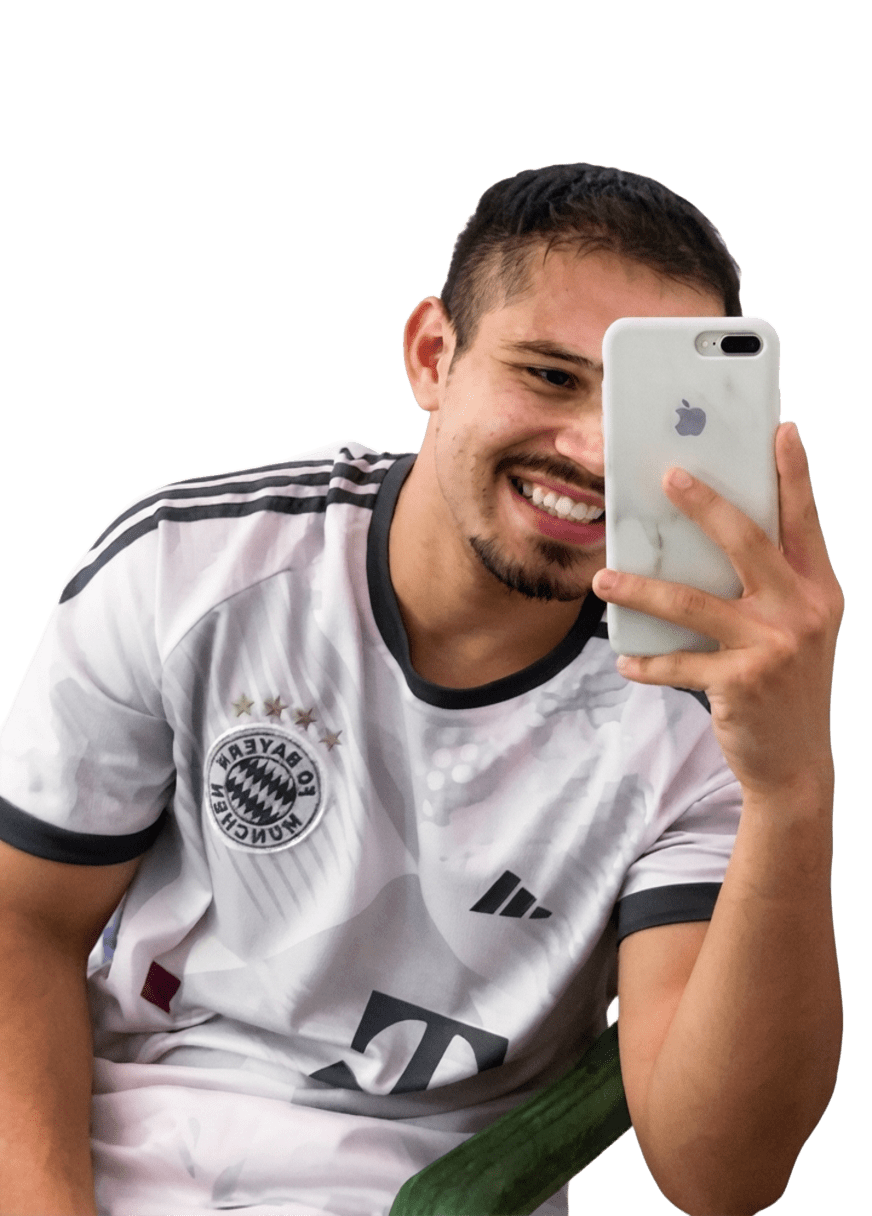
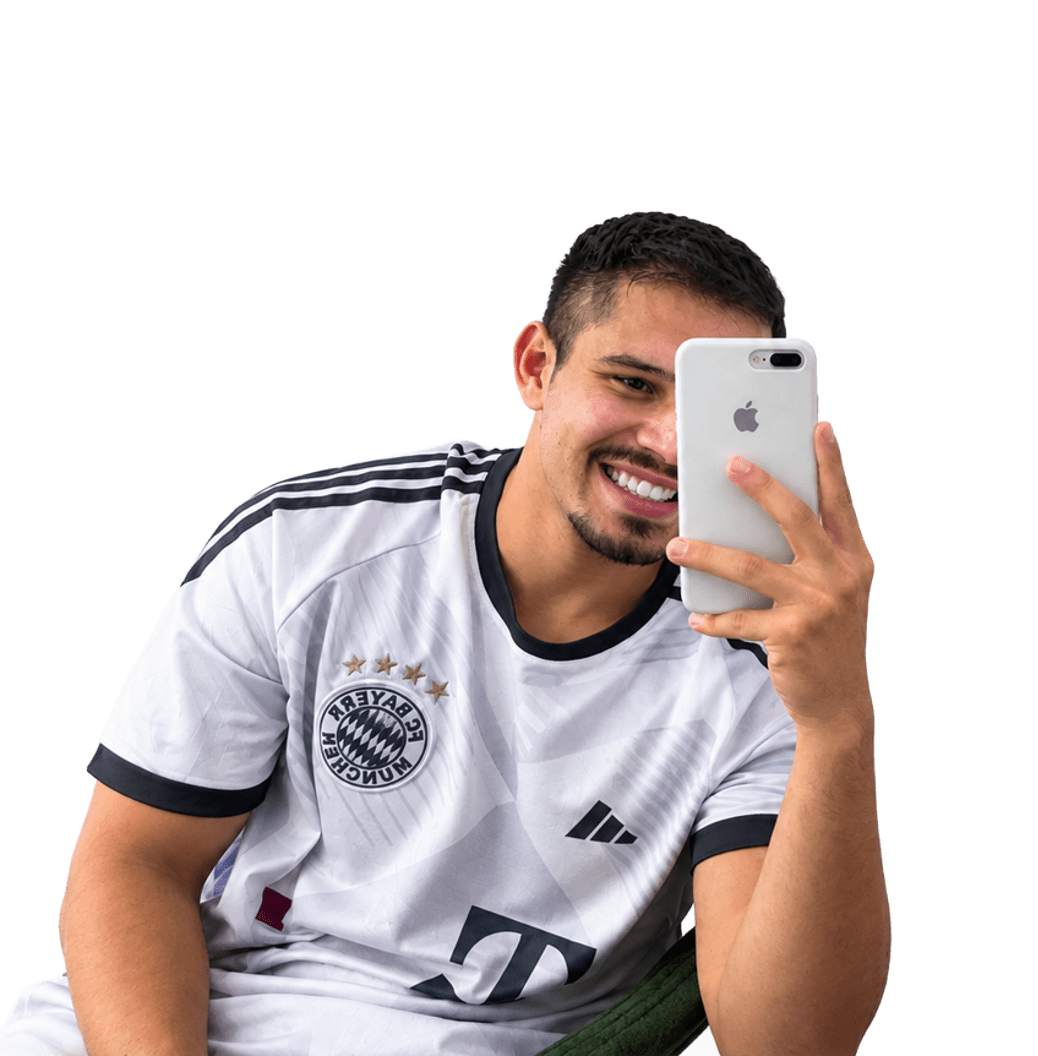
feat: update developer profile content

diff --git a/src/pages/Home/sections/About/About.tsx b/src/pages/Home/sections/About/About.tsx
@@ -27,18 +27,19 @@ export default function About() {
 
           <div className="about-info">
             <h3>
-              Front-end developer focused on building modern web applications.
+              Software developer focused on building modern web applications.
             </h3>
 
             <p>
-              I build web applications with a focus on modern, responsive, and
-              functional interfaces, always aiming to combine a great user
-              experience with clean code and efficient solutions.
+              I build web applications with React and TypeScript on the
+              front-end, focusing on modern, responsive, and functional
+              interfaces.
             </p>
 
             <p>
-              My main focus is Front-end development, with additional knowledge
-              of Back-end development, APIs, and database integration.
+              I also work with Node.js and Express on the back-end, building
+              REST APIs, authentication systems, and database-driven
+              applications.
             </p>
           </div>
         </div>

diff --git a/index.html b/index.html
@@ -10,31 +10,21 @@
 
     <meta
       name="description"
-      content="Portfólio de Gabriel Silva — Desenvolvedor Web focado em criar aplicações modernas, responsivas e funcionais."
+      content="Gabriel Silva — Software Developer focused on building modern web applications, REST APIs, and scalable solutions."
     />
 
     <meta name="author" content="Gabriel Silva" />
 
-    <meta
-      name="theme-color"
-      content="#101010"
-    />
+    <meta name="theme-color" content="#101010" />
 
-    <link
-      rel="icon"
-      type="image/png"
-      href="/favicon.png"
-    />
+    <link rel="icon" type="image/png" href="/favicon.png" />
 
-    <title>Gabriel Silva | Web Developer</title>
+    <title>Gabriel Silva | Software Developer</title>
   </head>
 
   <body id="top">
     <div id="root"></div>
 
-    <script
-      type="module"
-      src="/src/main.tsx"
-    ></script>
+    <script type="module" src="/src/main.tsx"></script>
   </body>
 </html>

diff --git a/src/data/Skills.ts b/src/data/Skills.ts
@@ -1,6 +1,7 @@
 import type { Skill } from "../types/skill";
 
 const Skills: Skill[] = [
+  // Frontend
   {
     name: "React",
     category: "Frontend",
@@ -26,6 +27,7 @@ const Skills: Skill[] = [
     category: "Frontend",
   },
 
+  // Backend
   {
     name: "Node.js",
     category: "Backend",
@@ -38,19 +40,26 @@ const Skills: Skill[] = [
     name: "REST API",
     category: "Backend",
   },
-  {
-    name: "MariaDB",
-    category: "Backend",
-  },
+
+  // Database
   {
     name: "MongoDB",
-    category: "Backend",
+    category: "Database",
+  },
+  {
+    name: "MariaDB",
+    category: "Database",
+  },
+  {
+    name: "SQLite",
+    category: "Database",
   },
   {
     name: "Sequelize",
-    category: "Backend",
+    category: "Database",
   },
 
+  // Tools
   {
     name: "Git",
     category: "Tools",
@@ -73,4 +82,4 @@ const Skills: Skill[] = [
   },
 ];
 
-export default Skills
+export default Skills;

diff --git a/src/pages/Home/sections/Skills/Skills.tsx b/src/pages/Home/sections/Skills/Skills.tsx
@@ -1,13 +1,15 @@
 import { useEffect, useRef, useState } from "react";
+
 import Container from "../../../../components/Container/Container";
 import SkillsData from "../../../../data/Skills";
 
 import "./Skills.css";
 
 export default function Skills() {
-  const categories = ["Frontend", "Backend", "Tools"] as const;
+  const categories = ["Frontend", "Backend", "Database", "Tools"] as const;
 
   const [isVisible, setIsVisible] = useState(false);
+
   const skillsRef = useRef<HTMLElement>(null);
 
   useEffect(() => {
@@ -47,8 +49,8 @@ export default function Skills() {
           </h2>
 
           <p className="skills-description">
-            Technologies and tools I use to build modern, responsive, and
-            functional applications.
+            Technologies and tools I use to build modern web applications,
+            from user interfaces to backend APIs.
           </p>
         </div>
 

diff --git a/src/pages/Home/sections/Hero/Hero.tsx b/src/pages/Home/sections/Hero/Hero.tsx
@@ -8,18 +8,16 @@ export default function Hero() {
       <Container>
         <div className="hero-content">
           <div className="hero-text">
-            <span className="hero-greeting">
-              Hi, I'm Gabriel Silva
-            </span>
+            <span className="hero-greeting">Hi, I'm Gabriel Silva</span>
 
             <h1 className="hero-title">
-              Front-end
+              Software
               <span> Developer</span>
             </h1>
 
             <p className="hero-description">
-              Front-end developer focused on building modern, responsive,
-              and functional web applications.
+              Building modern web applications with React, TypeScript, Node.js,
+              and REST APIs.
             </p>
 
             <div className="hero-actions">

diff --git a/src/components/Footer/Footer.tsx b/src/components/Footer/Footer.tsx
@@ -9,7 +9,7 @@ export default function Footer() {
         <div className="footer-main">
           <div className="footer-brand">
             <h2>Gabriel Silva</h2>
-            <p>Front-end Developer</p>
+            <p>Software Developer</p>
           </div>
 
           <div className="footer-links">

diff --git a/src/types/skill.ts b/src/types/skill.ts
@@ -1,4 +1,4 @@
 export interface Skill {
     name: string;
-    category: "Frontend" | "Backend" | "Tools"
+    category: "Frontend" | "Backend" | "Tools" | "Database"
 }
